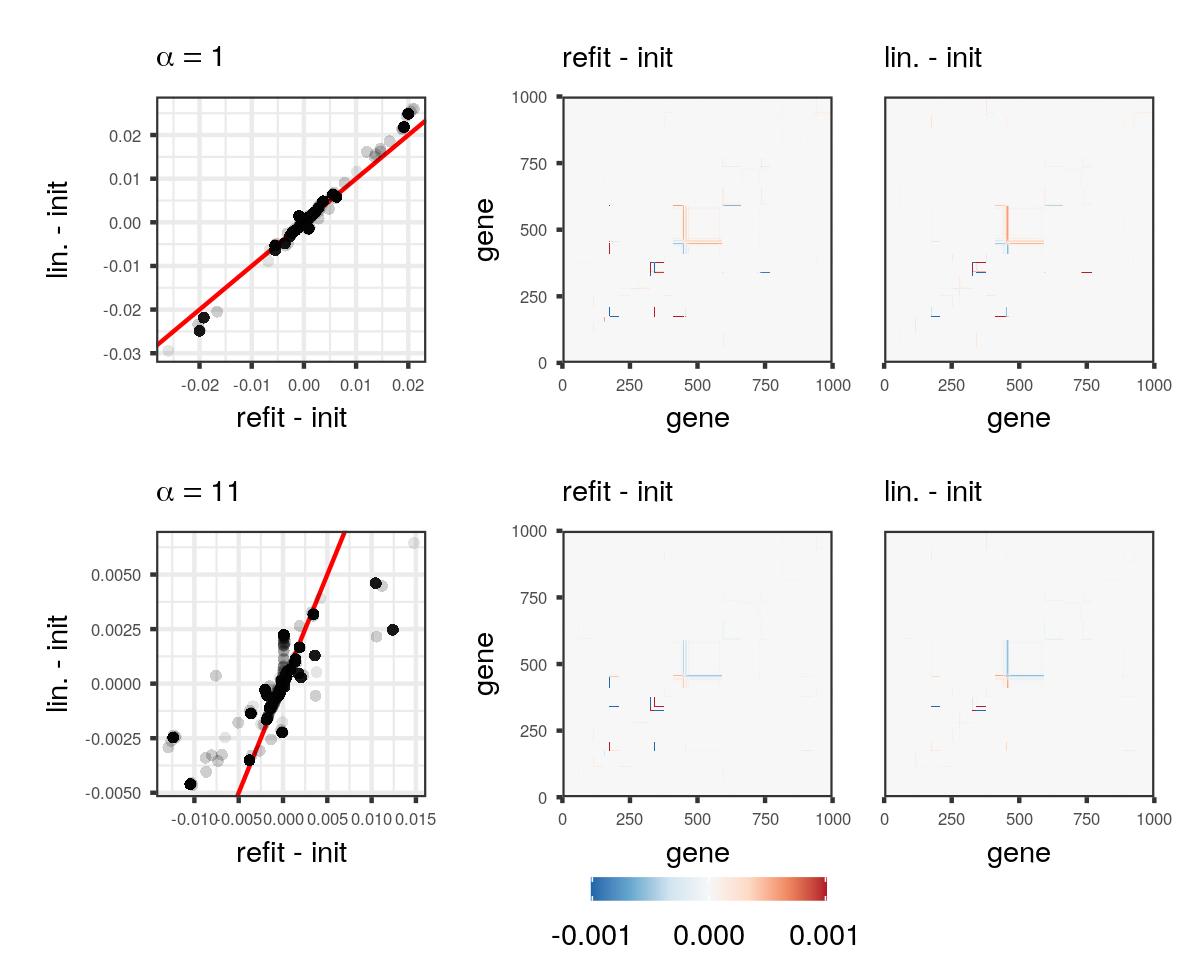
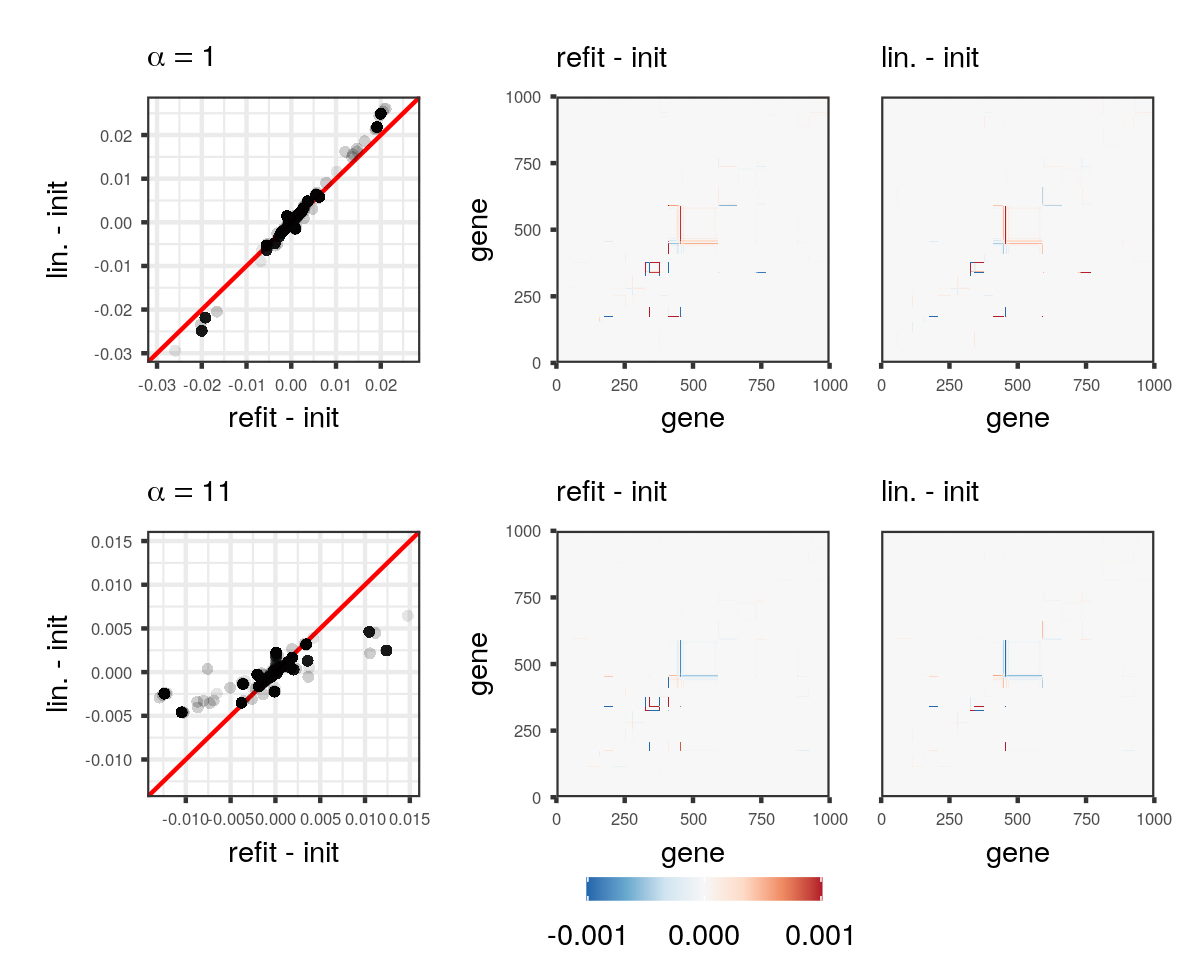
edits to iris; update mice plots

diff --git a/writing/journal_paper/iris_experiments.tex b/writing/journal_paper/iris_experiments.tex
@@ -19,9 +19,9 @@ we set the truncation parameter $\kmax = 15$.
 
 \subsubsection*{Parametric sensitivity}
 
-We explore how posterior inferences vary with different choices 
+We explore how the posterior number of clusters vary with different choices 
 of the GEM parameter $\alpha$. 
-The the expected number of clusters under the GEM prior is given by 
+The \textit{a priori} expected number of clusters under a GEM is 
 \begin{align}\eqlabel{prior_num_clusters}
 \sum_{\n = 1}^\N \frac{\alpha}{\alpha + \n - 1},
 \end{align}
@@ -30,7 +30,7 @@ where $\N$ is the number of observations CITE.
 For the iris data set, we 
 consider the range $\alpha\in[0.1, 4.0]$. 
 Using \eqref{prior_num_clusters}, 
-the prior expected number of clusters is $\approx 1.5$ when $\alpha = 0.1$ and 
+the prior number of clusters is $\approx 1.5$ when $\alpha = 0.1$ and 
 $\approx 15$ when $\alpha = 4.0$. 
 The shape of the stick-breaking density varies 
 considerably for this range of $\alpha$ (\figref{beta_priors}), 
@@ -53,7 +53,7 @@ unclear which $\alpha$ to choose.
 
 
 We arbitrarily pick $\alpha_0 = 2$, near the midpoint of our considered range, and 
-\figref{iris_fit} shows the inferred clusters with this prior choice. 
+\figref{iris_fit} shows the GMM fit with this prior choice. 
 The BNP model identifies three dominant clusters, agreeing with the 
 known fact that there are three iris species in this dataset. 
 We now investigate whether this result is sensitive to our choice of $\alpha$. 
@@ -78,8 +78,8 @@ We now investigate whether this result is sensitive to our choice of $\alpha$.
 
 
 Our posterior quantities, 
-the expected number of in-sample clusters $\gclusters$ and 
-the expected number of predictive clusters $\gclusterspred$,
+the expected number of in-sample clusters and 
+the expected number of predictive clusters,
 were defined in~\exref{insample_nclusters, predictive_nclusters}. 
 For this application, 
 we do not use thresholding in computing the number of clusters 
@@ -92,7 +92,7 @@ Without further optimization, we use the linear approximation
 to quickly evaluate 
 $\etalinglobal(\alpha)$ for a sequence of $\alpha$'s 
 in the range $\alpha \in [0.1, 4.0]$,
-and produce posterior quantities $g(\etalinglobal(\alpha))$. 
+and produce posterior quantities $g(\etalinglobal(\alpha))$.
 
 For this range of $\alpha$, 
 the predictive quantity appears much more sensitive than 
@@ -109,7 +109,7 @@ Subsequent refits at $\alpha\not=\alpha_0$ confirm the sensitivity conclusions
 of our linearized variational parameters. 
 The values $\g(\etalinglobal(\alpha))$ closely mimic the 
 values $g(\etaopt(\alpha))$ found by refitting 
-the variational parameters at each $\alpha$ (\figref{iris_alpha_sens}).
+the variational parameters at each $\alpha$.
 Importantly, 
 the linear approximation is an order of magnitude faster than refitting. 
 Forming the linear approximation at $\alpha = \alpha_0$, 
@@ -137,7 +137,7 @@ On the left is in-sample quantity $\gclustersabbr$.
 On the right is the the predictive quantity $\gclusterspredabbr$. 
 We formed the linear approximation at $\alpha=2$. 
 In red, the expected number of clusters computed under the
-linearly approximated variational parameters (red).
+linearly approximated variational parameters.
 In blue, the expected number of clusters obtained by refitting the model at each $\alpha$. }\label{fig:iris_alpha_sens}
 \end{figure}
 
@@ -156,31 +156,36 @@ In blue, the expected number of clusters obtained by refitting the model at each
 
 \subsubsection*{Functional perturbations and the influence function}
 
-We again start with the variational parameters at $\alpha_0 = 2$, 
-we demonstrate the ability of the influence function to 
+We again start with the variational approximation fit with GEM parameter
+$\alpha_0 = 2$, but now we consider functional perturbations to 
+the stick-breaking $\betadist{1, \alpha_0}$ density. 
+We demonstrate the ability of the influence function to 
 provide guidance on the anticipated effect of potential perturbations 
 on the expected number of in-sample clusters. 
+
 Recall from \eqref{vb_eta_infl_sens} that the local sensitivity can 
 be represented as an inner product between the influence function $\infl$
 and a multiplicative perturbation $\phi$;
 the inner product takes the form,
 \begin{align}\eqlabel{recall_infl_innerprod}
 \fracat{d g(\etaopt(\t \phi))}{d \t}{0} ={}&
-    \int \infl_p(\lnuk) \phi(\lnuk) \mu(d\lnuk),
+    \int \infl(\lnuk) \phi(\lnuk) \mu(d\lnuk),
 \end{align}
 where we expressed both the influence function and the perturbation in 
 unconstrained space, $\lnuk := \log(\nuk) - \log(1 - \nuk)$. 
+The left column of \figref{iris_fsens} shows the influence function 
+for the number of in-sample clusters $\gclustersabbr$ in purple.
 
 In order to illustrate this inner product,
-we consider functional perturbations $\phi_\mu$ 
+we consider perturbations $\phi_\mu$ 
 which are Gaussian bumps, with each perturbation centered at a
 different $\mu$ on the real line (\figref{iris_fsens} left column). 
-The perturbed priors are
-$p(\lnu_k|\t) = p_0(\lnu_k)\exp(\t\phi_\mu(\lnu_k))$.
+The perturbed densities are
+$p(\lnu_k|\t\phi_\mu) = p_0(\lnu_k)\exp(\t\phi_\mu(\lnu_k))$.
 The middle column of \figref{iris_fsens} displays the initial density
 $p_0(\nu_k) = \betadist{\nu_k\vert 1, \alpha_0}$
-along with the perturbed densities
-$p(\nu_k|\t = 1)$ for different choices of $\mu$, 
+along with the perturbed densities at $\t = 1$
+for different choices of $\mu$, 
 in the original $(0, 1)$ constrained space.
 
 
@@ -213,8 +218,7 @@ While each perturbation produces distinct changes in $\gclustersabbr$,
 it is unclear how to anticipate the effect of a perturbation 
 by comparing the original and perturbed densities alone. 
 On the other hand, the sign and magnitude of the change in $\gclustersabbr$ after 
-prior perturbation are well-explained by its influence function, 
-plotted in purple in the left column of \figref{iris_fsens}, 
+prior perturbation are well-explained by its influence function
 and the representation of local sensitivity as an inner product
 (\eqref{recall_infl_innerprod}). 
 When $\phi_\mu$ is centered at a location where the influence function is negative, the effect of the perturbation on $\gclustersabbr$ 
@@ -223,8 +227,7 @@ conversely, when $\phi_\mu$ is centered at a location where the influence functi
 finally, when $\phi_\mu$ is centered at a location where the influence transitions from negative to positive, its effect on
 $\gclustersabbr$ is roughly zero (middle row). 
 In the last case, $\phi_\mu$ placed approximately equal weight on the negative and positive portions of the prior-weighted influence function, resulting in an approximately zero inner-product. 
-In the other data applications below, 
-the influence function will guide our choice of functional perturbation and explain why some perturbations result in greater sensitivity than others. 
+
 
 Finally, we consider the 
 worst-case multiplicative perturbation with unit $L_\infty$ norm.
@@ -288,8 +291,8 @@ We conclude that on the iris data set, $\gclustersabbr$ appears to be a quantity
 
 \end{knitrout}
 
-Computing the linearized variational parameters $\etalinglobal(\t)$ at $\t = 1$, 
-including the necessary Hessian solve, 
+Computing the linearized variational parameters $\etalinglobal(\t)$ at $\t = 1$
+(including the necessary Hessian solve)
 for a given functional perturbation 
 required 0.02 seconds. 
 A refit at $\t = 1$ requires about one second. 
@@ -299,7 +302,9 @@ will continue to hold for larger data analysis problems below.
 In general, the speed of the linear approximation allows us to quickly 
 explore many different potential functional perturbations when 
 refitting for each perturbation becomes prohibitive. 
-
+In the data applications below, 
+the influence function will guide our choice of functional perturbation and 
+uncover potentially influential perturbations. 
 
 % \begin{table}[tb]
 % \centering

diff --git a/writing/journal_paper/results_intro.tex b/writing/journal_paper/results_intro.tex
@@ -1,23 +1,23 @@
 We evaluate the prior sensitivity in BNP models applied to three distinct data analysis examples.
 We first fit a Gaussian mixture model (\exref{iris_bnp_process}) to the canonical iris data set.
-Secondly, we cluster time-course gene expression data using our regression model
+Secondly, we cluster time-course gene expression data using a regression model
 (\exref{mice_bnp_process}) and study the resulting co-clustering matrix.
-Finally, we fit our topic model (\exref{structure_bnp_process})
-on a data set of sampled genotypes in an endangered thrush species;
-from our model fit, we estimate the number of latent populations in this
+Finally, we fit a topic model (\exref{structure_bnp_process})
+on a data set of sampled genotypes in an endangered bird species.
+We estimate the number of latent populations in this
 bird species and reconstruct ancestral migration patterns.
 
-In each of our models, we consider both the effects of varying the parameter $\alpha$
-in the $\betadist{\nuk \vert 1, \alpha}$ stick distribution, as well as
+In each data example, we first fit the variational approximation to a model
+with Beta-distributed sticks at some chosen parameter $\alpha = \alpha_0$.
+We then examine the effects of varying the parameter $\alpha$
+in the $\betadist{\nuk \vert 1, \alpha}$ stick distribution
+as well as
 the effects of changing the functional form the Beta prior itself.
 For a given prior perturbation,
 we validate the performace of the linear approximation against
 the more expensive process of re-fitting the model.
 
-In each data example,
-the initial variational parameters were fit to a model
-with Beta-distributed sticks at some chosen parameter $\alpha = \alpha_0$.
-We optimized the initial variational parameters with
+We optimized the initial variational approximation with
 the BFGS algorithm run with a loose convergence tolerance
 followed by trust-region Newton conjugate gradient (trust-ncg) to find a high-quality optimum.
 Unless otherwise noted, all subsequent refits after a prior pertrubation were found

diff --git a/writing/journal_paper/mice_data_experiments.tex b/writing/journal_paper/mice_data_experiments.tex
@@ -78,8 +78,8 @@ because the later time points are more spread out.
 \end{knitrout}
 %
 
-We fitted the initial approximate posterior at $\alpha_0 = 6$. 
-We will evaluate the senstivity of this choice of $\alpha$ below. 
+In this application, we expect to uncover finer structure than the iris data set, so we start with a larger $\alpha$ and set $\alpha_0 = 6$. 
+We will evaluate the senstivity to this choice of $\alpha$ below. 
 \figref{gene_centroids} shows the inferred smoothers 
 $\regmatrix\mathbb{E}_\q[\beta_k]$ for selected clusters. 
 \figref{gene_initial_coclustering} displays the inferred co-clustering matrix
